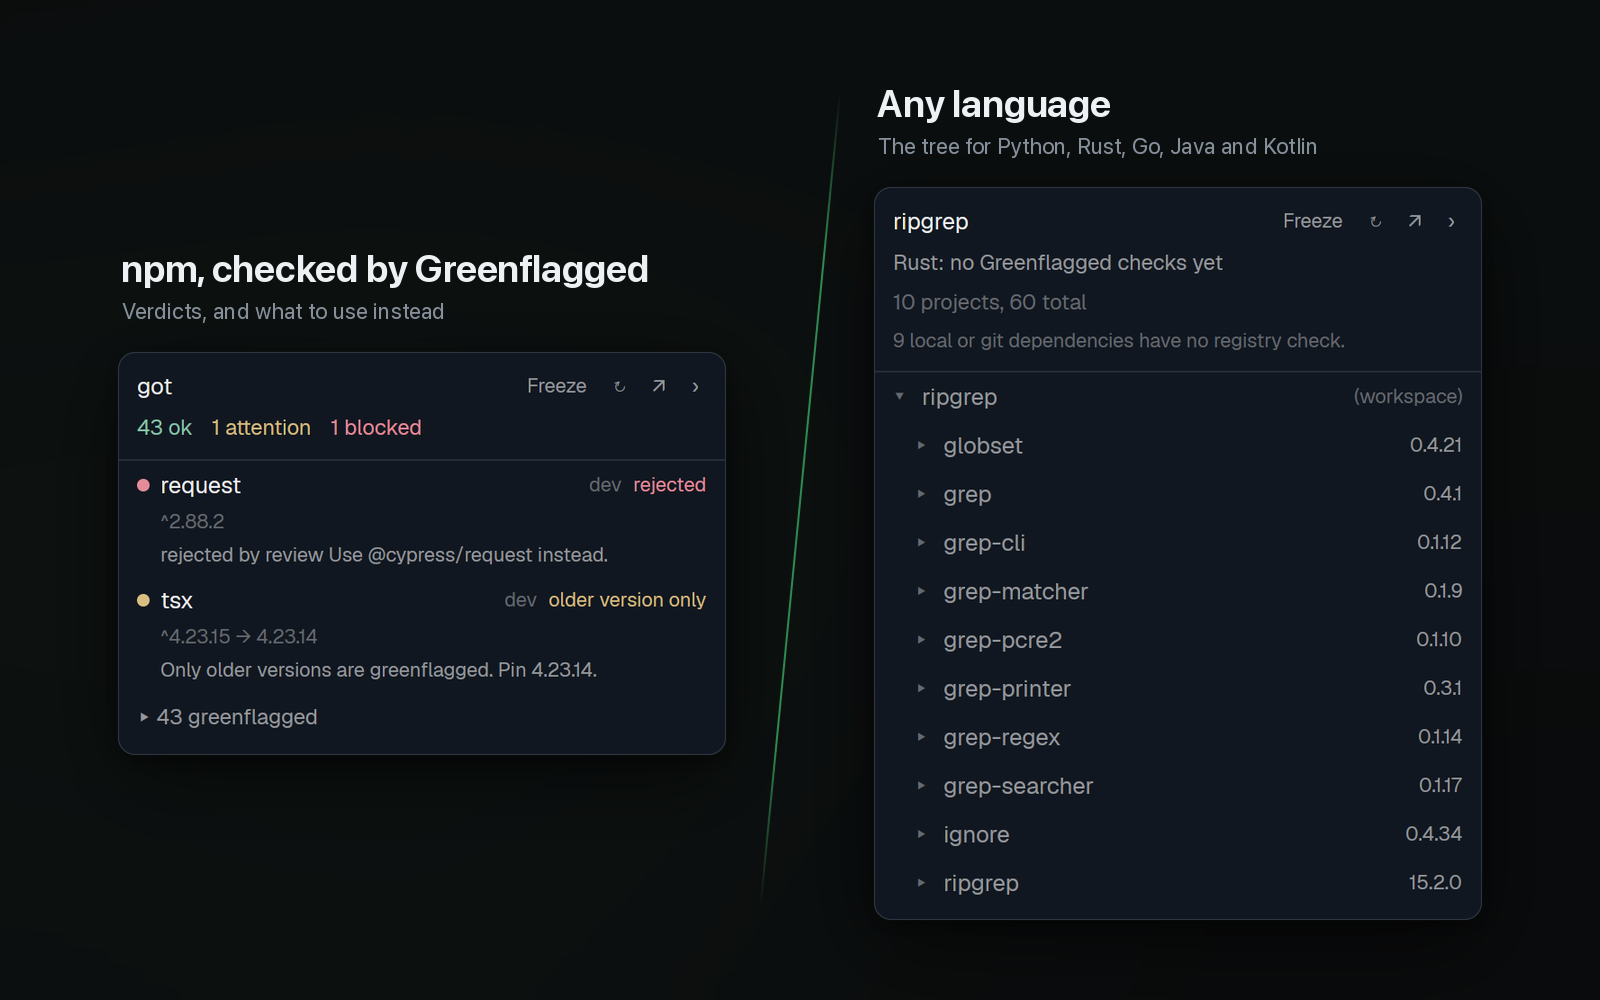
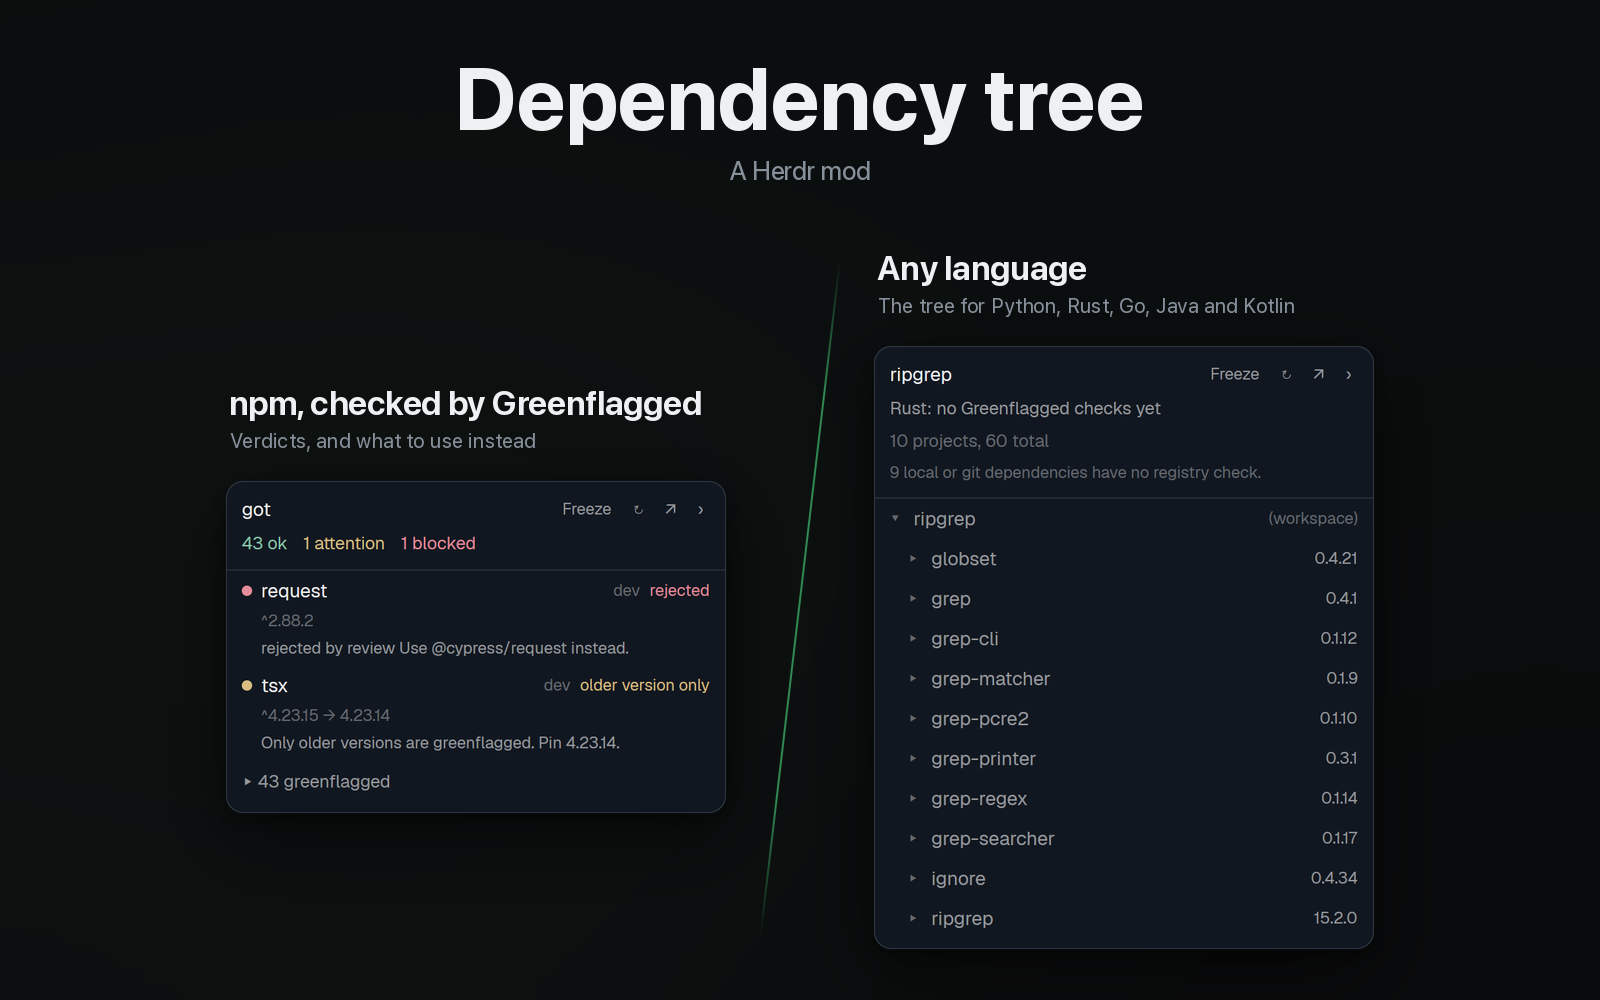
Title the preview "Dependency tree" (round 5)
The preview now leads with a large "Dependency tree" headline and a
small "A Herdr mod" line, so the mods-site card says what the mod does
at a glance. The two panels, their captions and the "/" divider stay;
the captures are scaled to 74% to make room, and nothing is clipped.
The README and RECIPE alt text mention the title.

Claude-Session: https://claude.ai/code/session_015cqYHJqSQygVaEB5pbEGiR

diff --git a/RECIPE.md b/RECIPE.md
@@ -2,7 +2,7 @@
 
 A dependency tree viewer for Herdr. It follows the terminal you're working in and shows the project's dependency tree for npm, Python, Rust, Go, Java and Kotlin, read from its manifest and lockfile. It needs no account. Greenflagged's checks are the extra layer: signed in, an npm (JavaScript) project's rows become verdicts, so the panel spots rejected and unreviewed dependencies as your agent works and shows what to use instead. [Greenflagged](https://greenflagged.dev) is a private npm registry that scans and reviews every package it serves. It is free for personal use.
 
-![Two panels split by a diagonal line. Left, captioned "npm, checked by Greenflagged": the npm project got reading "43 ok", "1 attention" and "1 blocked", with request (dev) rejected and "rejected by review Use @cypress/request instead.", tsx (dev) marked "older version only" with "Only older versions are greenflagged. Pin 4.23.14.", and a folded "43 greenflagged" row. Right, captioned "Any language": the Rust workspace ripgrep reading "Rust: no Greenflagged checks yet", "10 projects, 60 total" and "9 local or git dependencies have no registry check", with an open ripgrep (workspace) row over its ten crates, from globset 0.4.21 to ripgrep 15.2.0](preview.png)
+![Titled "Dependency tree", with "A Herdr mod" beneath. Below the title, two panels split by a diagonal line. Left, captioned "npm, checked by Greenflagged": the npm project got reading "43 ok", "1 attention" and "1 blocked", with request (dev) rejected and "rejected by review Use @cypress/request instead.", tsx (dev) marked "older version only" with "Only older versions are greenflagged. Pin 4.23.14.", and a folded "43 greenflagged" row. Right, captioned "Any language": the Rust workspace ripgrep reading "Rust: no Greenflagged checks yet", "10 projects, 60 total" and "9 local or git dependencies have no registry check", with an open ripgrep (workspace) row over its ten crates, from globset 0.4.21 to ripgrep 15.2.0](preview.png)
 
 ## What you see
 

diff --git a/README.md b/README.md
@@ -37,7 +37,7 @@ files it reads there are listed under [What it does on your machine](#what-it-do
 Signed in, on the npm project got (left), and at the root of the Rust workspace ripgrep, with its
 crates under it (right):
 
-![Two panels split by a diagonal line. Left, captioned "npm, checked by Greenflagged": the npm project got reading "43 ok", "1 attention" and "1 blocked", with request (dev) rejected and "rejected by review Use @cypress/request instead.", tsx (dev) marked "older version only" with "Only older versions are greenflagged. Pin 4.23.14.", and a folded "43 greenflagged" row. Right, captioned "Any language": the Rust workspace ripgrep reading "Rust: no Greenflagged checks yet", "10 projects, 60 total" and "9 local or git dependencies have no registry check", with an open ripgrep (workspace) row over its ten crates, from globset 0.4.21 to ripgrep 15.2.0](preview.png)
+![Titled "Dependency tree", with "A Herdr mod" beneath. Below the title, two panels split by a diagonal line. Left, captioned "npm, checked by Greenflagged": the npm project got reading "43 ok", "1 attention" and "1 blocked", with request (dev) rejected and "rejected by review Use @cypress/request instead.", tsx (dev) marked "older version only" with "Only older versions are greenflagged. Pin 4.23.14.", and a folded "43 greenflagged" row. Right, captioned "Any language": the Rust workspace ripgrep reading "Rust: no Greenflagged checks yet", "10 projects, 60 total" and "9 local or git dependencies have no registry check", with an open ripgrep (workspace) row over its ten crates, from globset 0.4.21 to ripgrep 15.2.0](preview.png)
 
 In one crate of that workspace, with a sibling crate as a `(project)` row:
 
